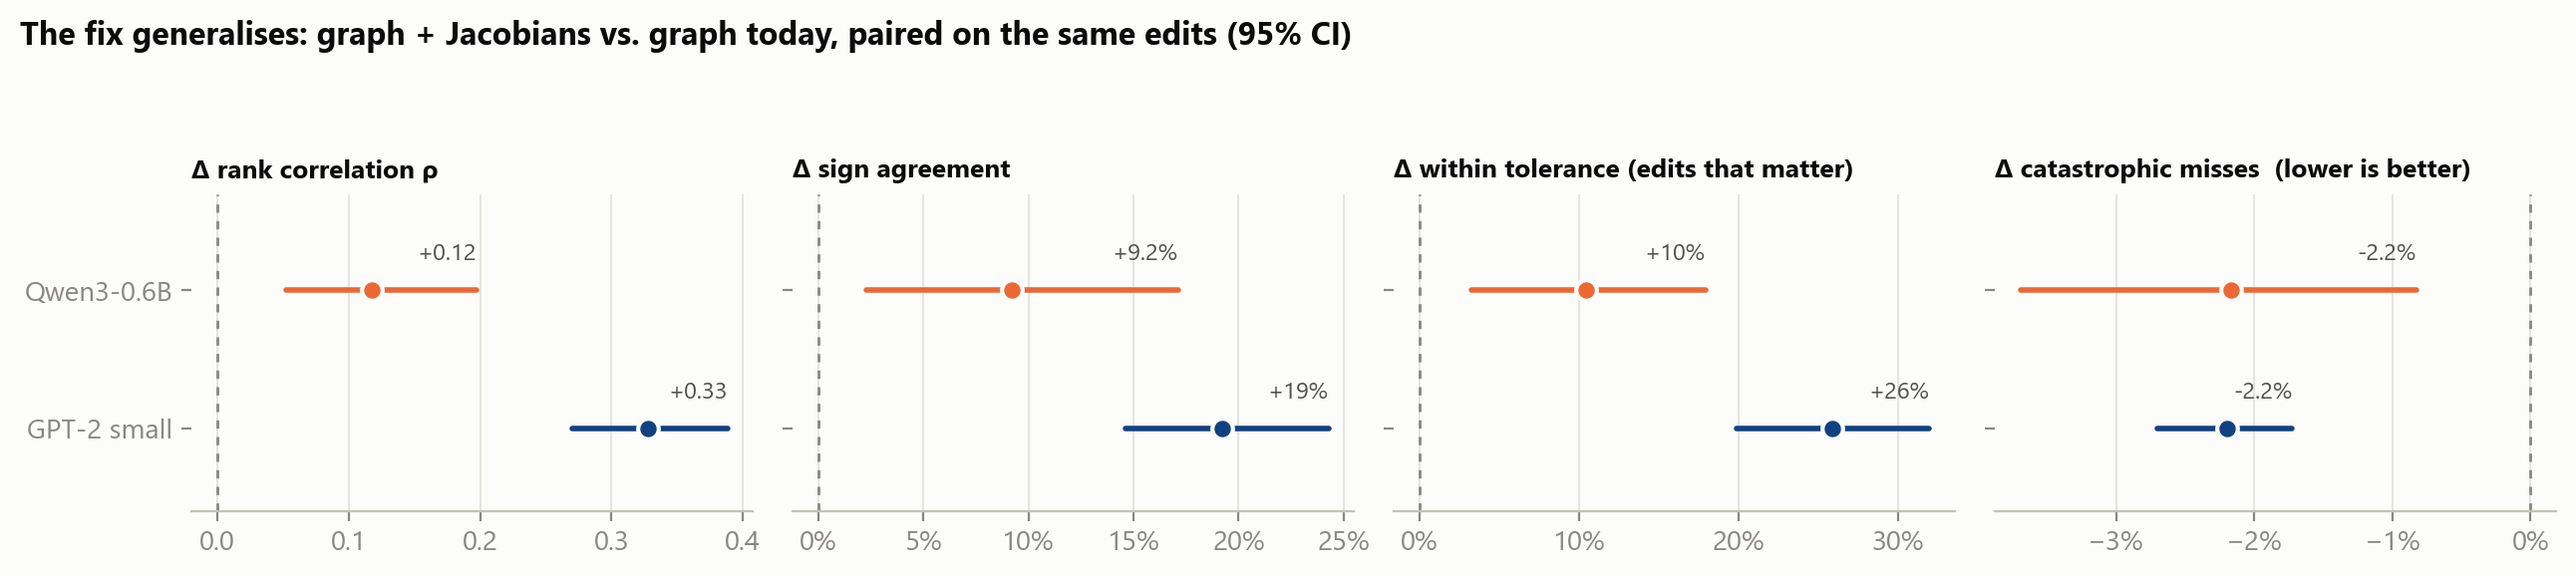
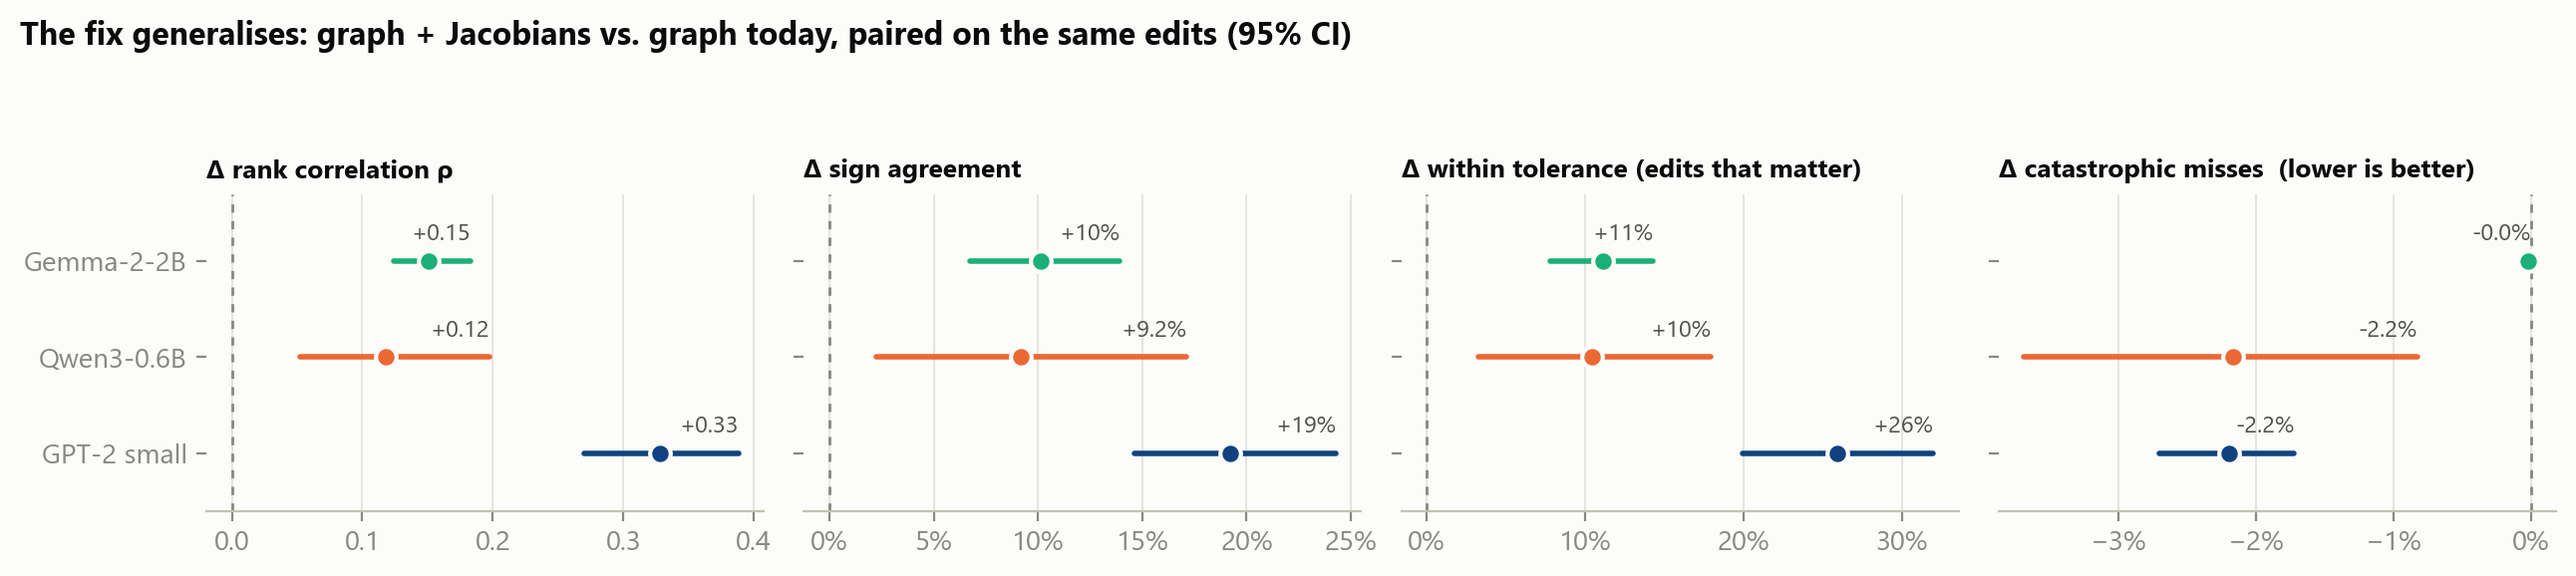
Report: Gemma-2-2B section (§4.9), abstract, limitations and reproduction steps

diff --git a/experiments/build_report.py b/experiments/build_report.py
@@ -23,7 +23,7 @@ DESC = (
     "Do attribution graphs predict what a language model really does? 8,064 feature "
     "interventions on GPT-2 small: the graph's frozen LayerNorm and attention cause most errors, "
     "and keeping their Jacobians makes the linear graph match the nonlinear model. "
-    "Replicated on Qwen3-0.6B."
+    "Replicated on Qwen3-0.6B and Gemma-2-2B."
 )
 
 CSS = """
@@ -136,7 +136,7 @@ def main() -> None:
 <script type="application/ld+json">{LDJSON}</script>
 <meta property="og:type" content="article" />
 <meta property="og:title" content="{title}" />
-<meta property="og:description" content="Attribution graphs drop two derivatives. Restoring them keeps the graph linear and lifts counterfactual accuracy from rho 0.20 to 0.53 on GPT-2, replicated on Qwen3-0.6B." />
+<meta property="og:description" content="Attribution graphs drop two derivatives. Restoring them keeps the graph linear and lifts counterfactual accuracy from rho 0.20 to 0.53 on GPT-2, replicated on Qwen3-0.6B and Gemma-2-2B." />
 <meta property="og:url" content="https://spiliosdimakopoulos.github.io/twinlens/report/" />
 <meta property="og:image" content="https://spiliosdimakopoulos.github.io/twinlens/og.png" />
 <meta property="og:image:width" content="1200" />

diff --git a/paper/REPORT.md b/paper/REPORT.md
@@ -38,7 +38,9 @@ Five findings:
    The fix replicates on a second, architecturally different model, Qwen3-0.6B (§4.7): the
    paired improvement in ρ is +0.12 [0.05, 0.20] and catastrophic misses fall from 3.0% to
    0.8%. The gain is smaller than on GPT-2, on 16 prompts, with every paired interval
-   excluding zero (uncorrected for multiple metrics).
+   excluding zero (uncorrected for multiple metrics). It replicates again on Gemma-2-2B with
+   Gemma Scope transcoders (§4.9): 17,472 edits on all 26 layers, ρ 0.21 → 0.36, paired
+   Δρ +0.15 [0.12, 0.18].
 4. **Failures of today's graph can be anticipated without running the real model.** A logistic
    "trust model" over nine signals computed from the clean run alone predicts whether the
    graph prediction will hold: AUROC 0.93 on held-out prompts and on held-out *task families*
@@ -51,7 +53,9 @@ Five findings:
 5. **The fixed graph beats a gradient through the real model.** Attribution patching, one
    backward pass through GPT-2 itself with nothing frozen, reaches ρ = 0.38 and 77% sign
    agreement on the same edits. Fix B is better on both: Δρ +0.15 [0.11, 0.19] and +9 pp
-   [4, 14] in sign agreement, with the same error size (§4.8).
+   [4, 14] in sign agreement, with the same error size (§4.8). On Gemma-2-2B the margin is
+   smaller but still excludes zero: Δρ +0.05 [0.03, 0.08], +8 pp [4, 11] in sign agreement
+   (§4.9).
 
 Effects in this study are small: only 9.0% of edits move the output by more than 0.05 nats and
 96 edits by more than 0.2 nats. The rank and sign results are the robust ones; the
@@ -427,15 +431,60 @@ reading is that the twin's first-order expansion is taken through sparse transco
 with fixed ReLU gates, which behave more linearly under a feature-sized edit than the real
 GELU MLPs do; we have not tested this explanation.
 
+### 4.9 A third model: Gemma-2-2B
+
+We ported the twin to Gemma-2-2B (`twinlens/core/gemma2.py`, DECISIONS.md D4) with the Gemma
+Scope 16k-feature JumpReLU transcoders and circuit-tracer's per-layer L0 choice. Gemma adds
+four RMSNorms per block, alternating sliding-window attention, an attention-score softcap
+(`50 tanh(s/50)`, whose derivative Fix B includes) and a final logit softcap. Which activations
+the transcoders read and write was settled on real weights before the sweep: the
+pre-feedforward norm output *without* its weight, and the MLP output after the post-feedforward
+norm. That choice has the lowest reconstruction error (mean FVU 0.45 over layers 2, 8, 14 and
+20) and L0 close to the published values. Single-layer splice recovery is uneven, though: 1.00
+at layer 8, 0.34–0.45 at layers 14 and 20, and −0.50 at layer 2. So the Gemma replacement is
+weaker than GPT-2's.
+
+The scope is the full model: 17,472 edits on 56 prompts (the GPT-2 prompt set). In each of the
+26 layers, 3 top and 3 random active features are each ablated and amplified (12 edits per layer
+per prompt). BOS is never edited. Unlike
+on Qwen3, the nonlinear replacement twin was run, and so was attribution patching on the real
+model (`experiments/atp_baseline.py --model gemma2`).
+
+| Level | ρ [95% CI] | sign agree | within tol (big) | catastrophic | mean err |
+|---|---|---|---|---|---|
+| Direct edges | 0.22 [0.19, 0.26] | 75.0% | 83.4% | 0.02% | 0.012 |
+| Graph today | 0.21 [0.17, 0.24] | 77.3% | 78.5% | 0.02% | 0.019 |
+| Fix A | 0.29 [0.25, 0.32] | 83.2% | 85.2% | 0.01% | 0.012 |
+| Fix B | 0.36 [0.33, 0.39] | 87.4% | 89.6% | 0.01% | 0.011 |
+| Nonlinear replacement twin | 0.23 [0.20, 0.25] | 82.1% | 79.5% | 0.02% | 0.033 |
+| Attribution patching (real Gemma) | 0.31 [0.27, 0.34] | 79.9% | 85.2% | 0.01% | 0.011 |
+
+Paired, Fix B − graph today is Δρ +0.15 [0.12, 0.18], +10 pp [7, 14] in sign agreement and
++11 pp [8, 14] within tolerance on big edits. Fix B − attribution patching is Δρ +0.05
+[0.03, 0.08], +8 pp [4, 11] in sign agreement and +4 pp [1, 8] within tolerance; catastrophic
+misses and mean error are indistinguishable. The gain holds in every task family: ρ rises on
+all eight, most on IOI (0.12 → 0.34), syntax (0.19 → 0.38) and narrative (0.28 → 0.45), least
+on code (0.31 → 0.38).
+
+Three caveats. First, catastrophic misses are almost absent on Gemma at every level (at most 4
+of 17,472 edits), so that metric does not separate the levels here. Second, on big edits
+(n = 809) "no change" is within tolerance 80% of the time with mean error 0.011, so Fix B beats
+that baseline on tolerance (90%) but not on error size. Third, unlike on GPT-2, the nonlinear
+replacement twin is much *worse* than Fix B (ρ 0.23 against 0.36, mean error three times
+larger). A plausible reason is the weak splice recovery above: running the transcoders live at
+every downstream layer compounds their reconstruction error, while the linear twin only uses
+them through gates and Jacobians at the clean point. We have not tested this.
+
 ## 5. Limitations
 
-- **Two models, two transcoder families.** GPT-2 small with per-layer transcoders, and
+- **Three models, three transcoder families.** GPT-2 small with per-layer transcoders,
   Qwen3-0.6B with `circuit-tracer` transcoders, where we covered only the upper 18 layers and
-  far fewer edits (§4.7). Larger models and cross-layer transcoders, which the current
-  circuit-tracing work uses, remain untested.
-- **One gradient baseline.** §4.8 compares Fix B with attribution patching on GPT-2 only.
-  Integrated-gradient variants (Marks et al., 2024; Hanna et al., 2024) and AtP* (Kramár et
-  al., 2024) were not run, and the comparison was not repeated on Qwen3.
+  far fewer edits (§4.7), and Gemma-2-2B with Gemma Scope transcoders whose splice recovery is
+  uneven across layers (§4.9). Models beyond 2B parameters and cross-layer transcoders, which
+  the current circuit-tracing work uses, remain untested.
+- **One gradient baseline.** §4.8 and §4.9 compare Fix B with attribution patching on GPT-2
+  and Gemma-2-2B. Integrated-gradient variants (Marks et al., 2024; Hanna et al., 2024) and
+  AtP* (Kramár et al., 2024) were not run, and the comparison was not repeated on Qwen3.
 - **Only feature-to-output effects are tested.** A graph also asserts feature-to-feature
   edges; we never measure an intermediate feature's response to an edit.
 - **Effects are small and early layers dominate the failures.** See §3 and §4.1: few edits
@@ -498,13 +547,16 @@ python experiments/extend_sweep.py --modes linear_lnjac     # Fix A, ~10 min
 python experiments/extend_sweep.py --modes linear_fulljac   # Fix B, ~15 min
 python experiments/qwen_prepare.py                                   # Qwen3 transcoders, ~6 GB, ~70 min
 python experiments/fidelity_sweep.py --model qwen3 --per-family 2 --n-top 2 --n-random 2   # 2,304 edits, ~30 min
+python experiments/gemma_prepare.py                                  # Gemma-2-2B weights + Gemma Scope transcoders
+python experiments/fidelity_sweep.py --model gemma2 --n-top 3 --n-random 3   # 17,472 edits, ~5 h on 8 vCPU, 16 GB RAM
+python experiments/atp_baseline.py --model gemma2                    # attribution patching on Gemma
 make analyze        # analyze.py + analyze_generalization.py: summary.json, trust_model.json, figures
 make serve          # dashboard at http://localhost:8000
 ```
 
 The sweep's raw output (`experiments/results/fidelity.parquet`, 1.3 MB) is committed, so
 `make analyze` reproduces every number above without re-running the sweep (the robustness
-checks of §3–§4.7 are in the `robustness` and `generalization` blocks of `summary.json`). The
+checks of §3–§4.9 are in the `robustness` and `generalization` blocks of `summary.json`). The
 latency figures in the README come from `make bench`.
 
 ## References
